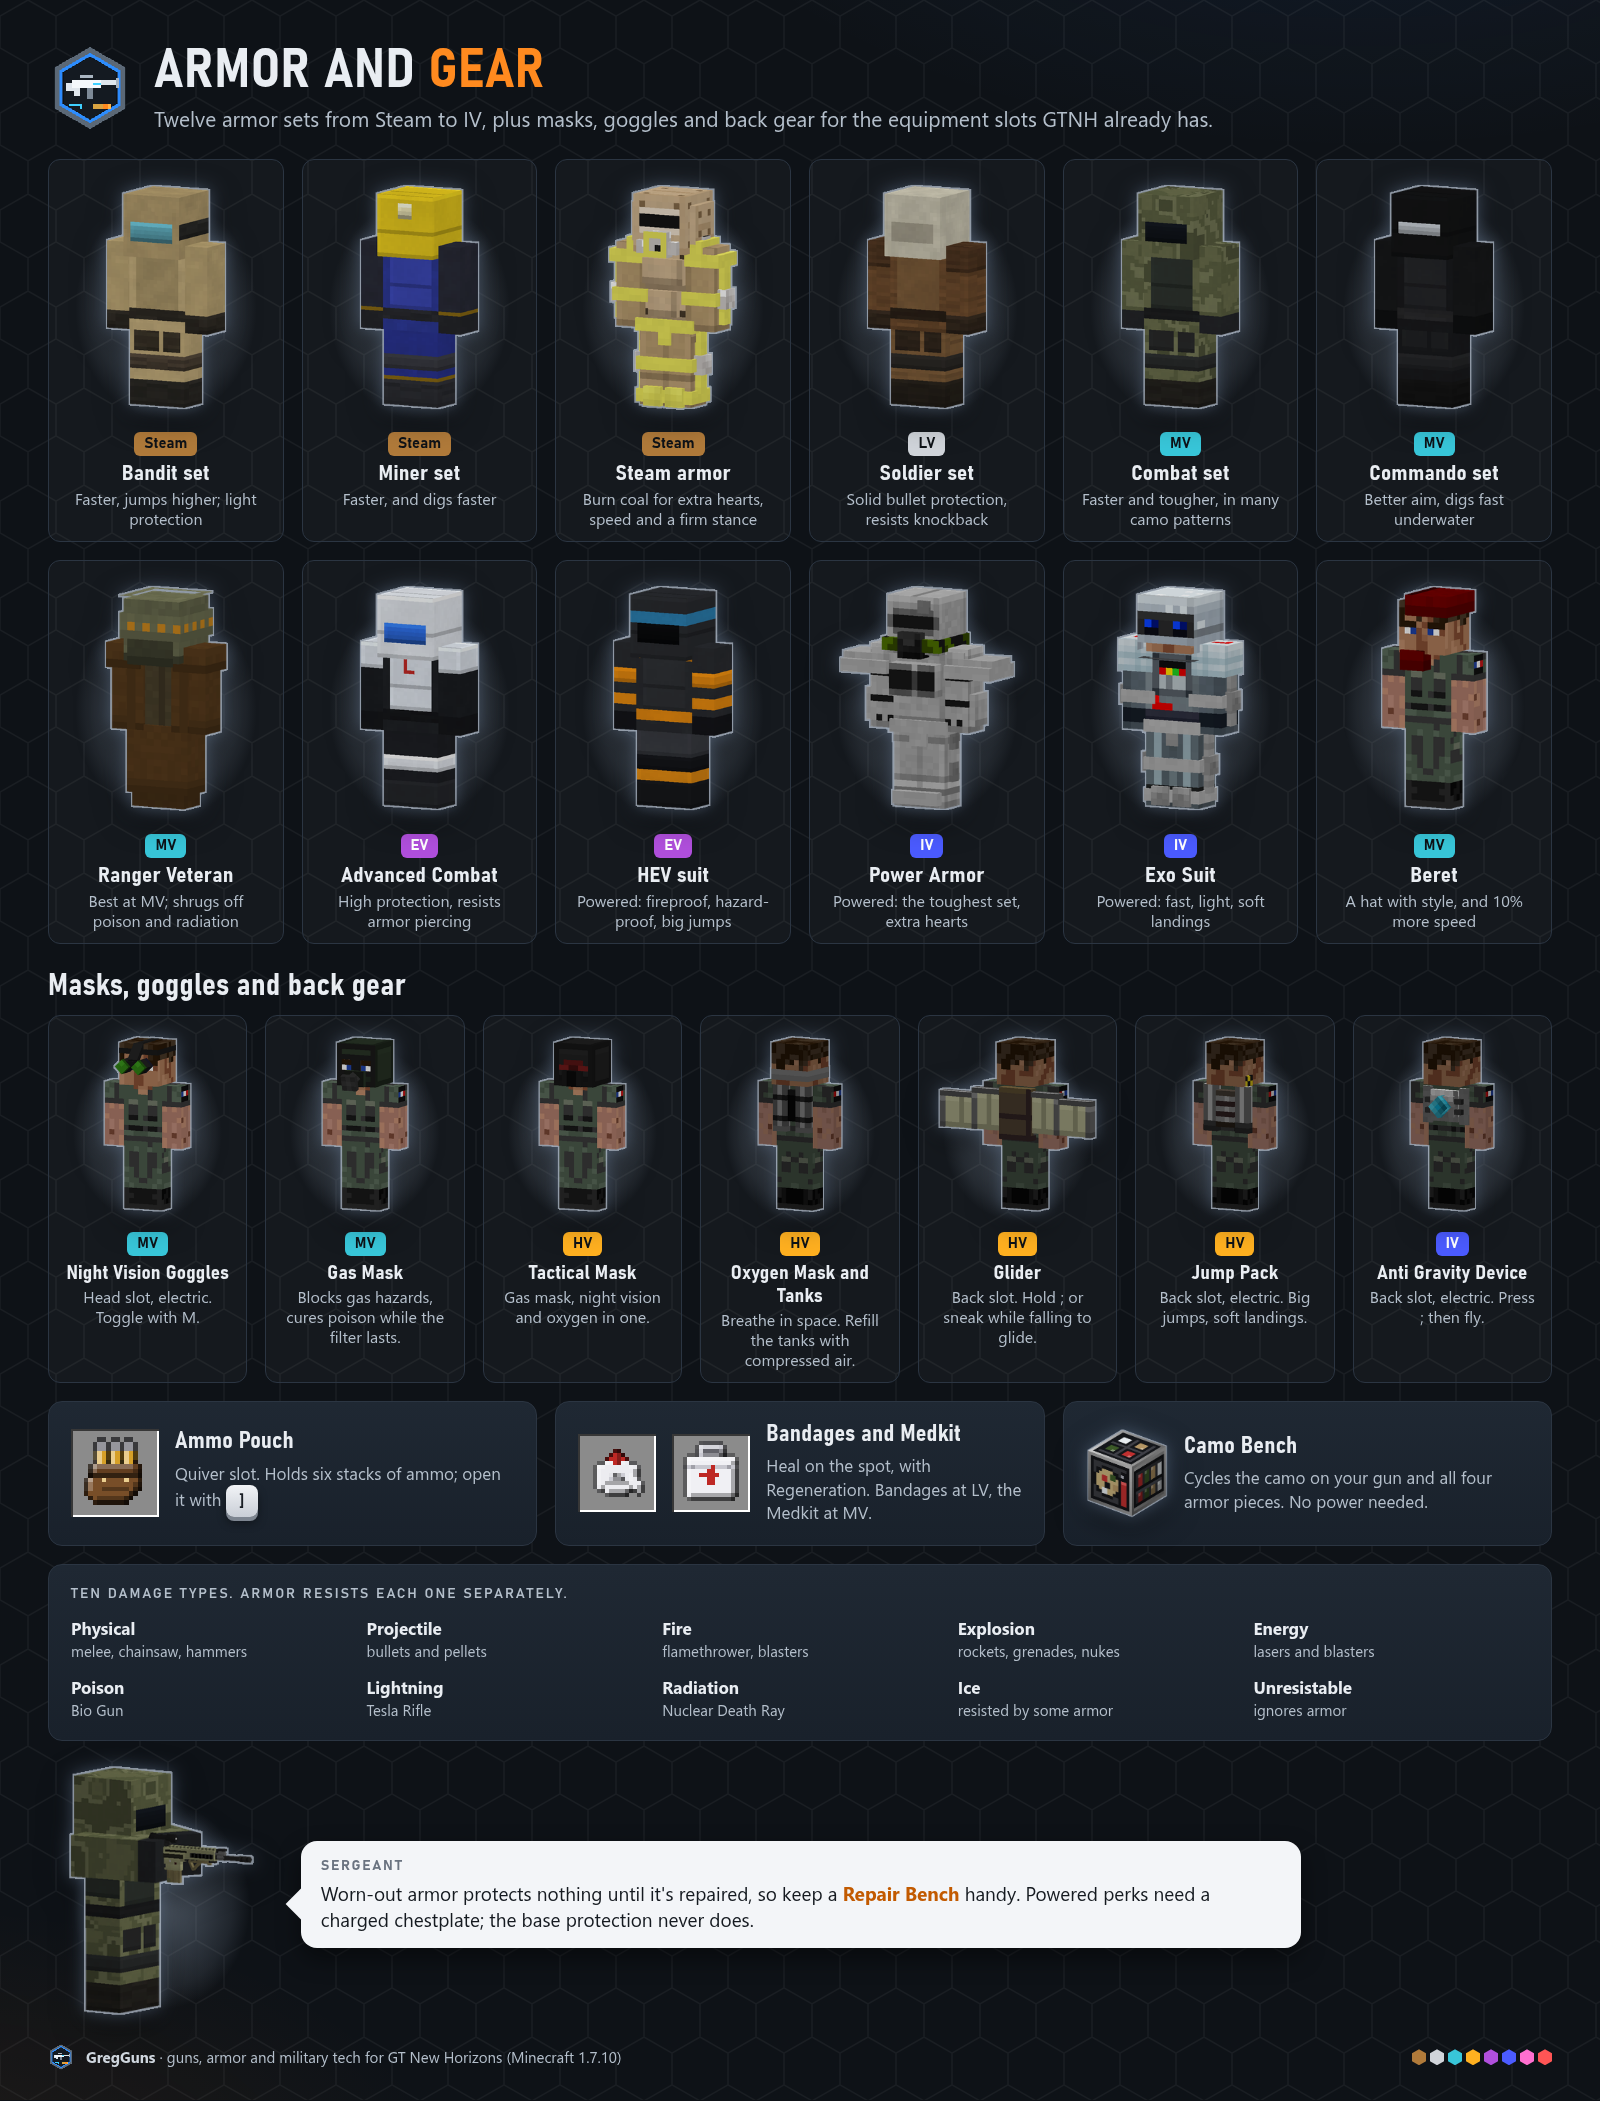
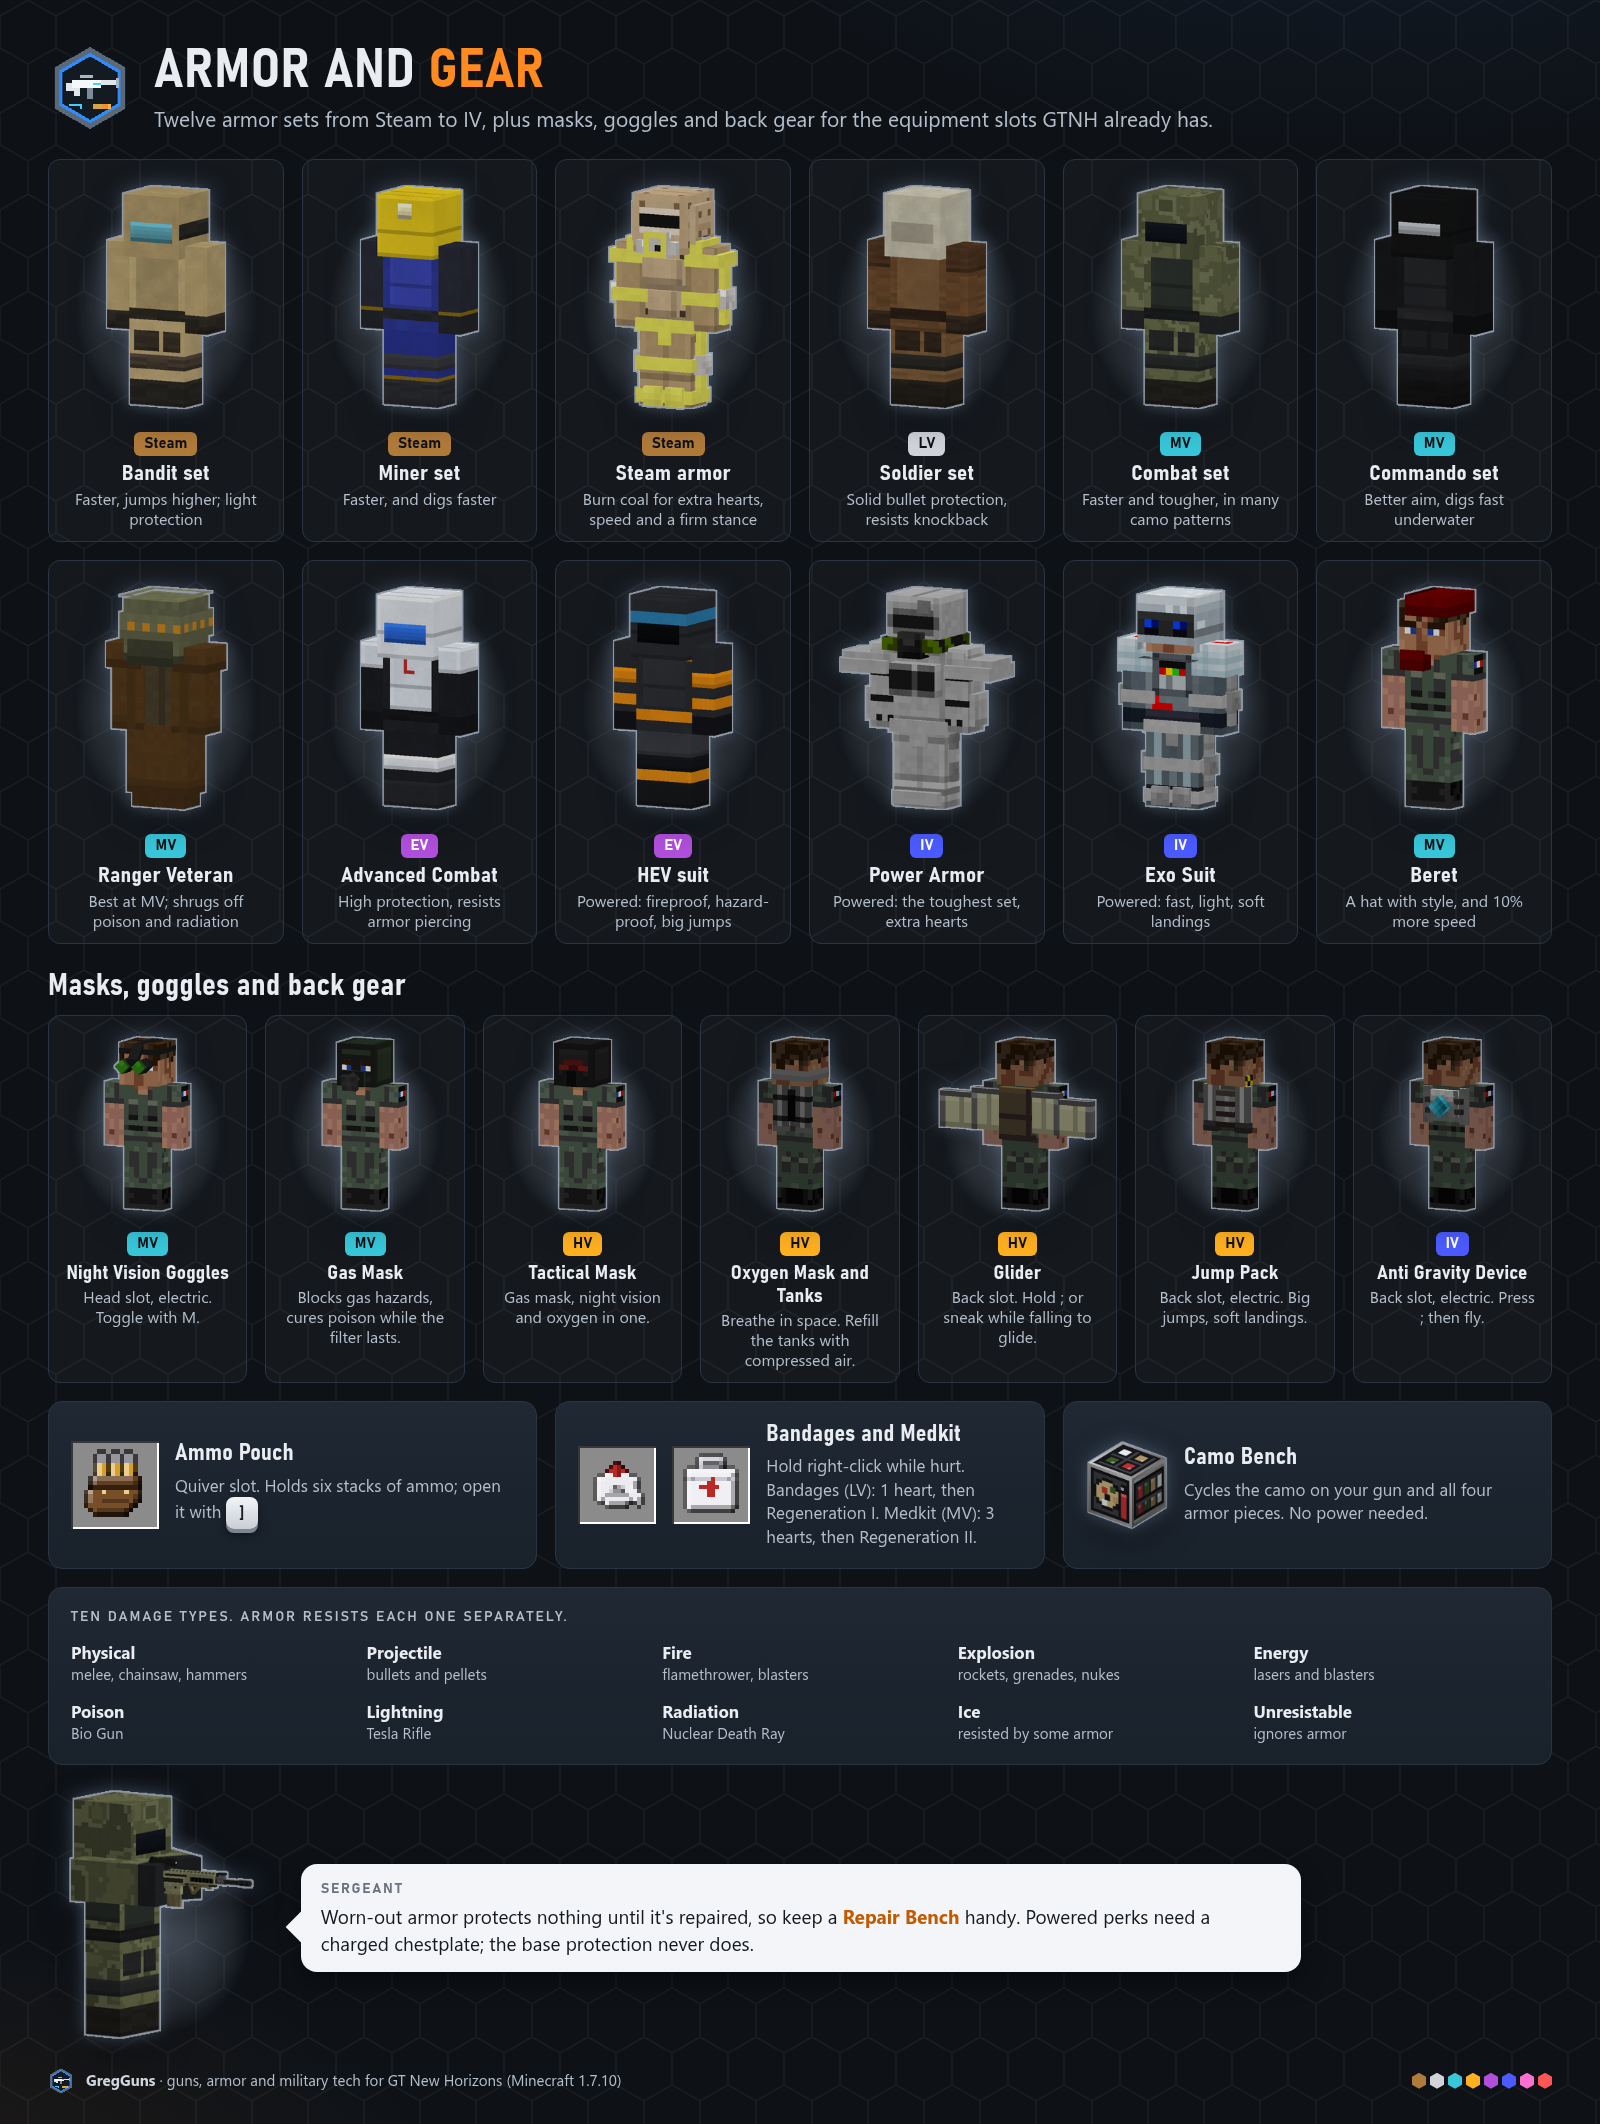
Guides: bandage and medkit facts from the items track (armor page, armor sheet, changelog)

diff --git a/tools/asset-gen/infographics/pages_more.py b/tools/asset-gen/infographics/pages_more.py
@@ -143,7 +143,7 @@ def armor():
     key_p = '<span class="key" style="min-width:32px;height:32px;font-size:16px">]</span>'
     extras = f"""<div class="grid" style="grid-template-columns:repeat(3,minmax(0,1fr));margin-top:18px">
 <div class="card" style="display:flex;gap:16px;align-items:center">{ico("ammo_pouch", 72)}<div><h3>Ammo Pouch</h3>{muted("Quiver slot. Holds six stacks of ammo; open it with " + key_p)}</div></div>
-<div class="card" style="display:flex;gap:16px;align-items:center">{ico("bandages", 64)}{ico("medkit", 64)}<div><h3>Bandages and Medkit</h3>{muted("Heal on the spot, with Regeneration. Bandages at LV, the Medkit at MV.")}</div></div>
+<div class="card" style="display:flex;gap:16px;align-items:center">{ico("bandages", 64)}{ico("medkit", 64)}<div><h3>Bandages and Medkit</h3>{muted("Hold right-click while hurt. Bandages (LV): 1 heart, then Regeneration I. Medkit (MV): 3 hearts, then Regeneration II.")}</div></div>
 <div class="card" style="display:flex;gap:16px;align-items:center">{img(S.machine_block("camo_bench", "LV"), h=90)}<div><h3>Camo Bench</h3>{muted("Cycles the camo on your gun and all four armor pieces. No power needed.")}</div></div></div>"""
     dmg = "".join(f'<div><b style="font-size:17px">{esc(n)}</b><div class="muted" style="font-size:15px">{esc(d)}</div></div>'
                   for n, d in DAMAGE)

diff --git a/.changelogs/0.4.1-beta.md b/.changelogs/0.4.1-beta.md
@@ -38,13 +38,14 @@ Read the [0.4.0-beta notes](https://github.com/Tuxprogrammer/GregGuns/releases/t
 ### Guns
 
 - **Reloading.** A magazine gun with no loaded magazine at hand loads one loose round per reload (two on the Akimbo Mac10s). The Revolvers, Golden Revolvers, Combat Shotgun and Sawed Off load one chamber at a time, a trigger pull stops the reload and fires what is loaded, and held without firing for 2 seconds they top themselves up (`guns.idleReloadDelayTicks`, 0 turns it off). Hold Shift over a gun for its reload rule.
-<!-- PEER (items): medkit and bandage behavior. Add when the items branch merges. -->
+- **Bandages and the Medkit** heal while you hold right-click: Bandages (LV) take 3 seconds and heal 1 heart at once, then Regeneration I for 15 seconds; the Medkit (MV) takes 2.5 seconds, heals 3 hearts and gives Regeneration II for 20 seconds. Your arm swings and an eating sound plays while you hold, with a burp at the end. At full health, a right-click says there is nothing to heal. <!-- PEER (items, D361): facts from the items agent's message; re-check against beta/041-items after it merges. -->
 <!-- PEER (loot): the structure loot ceiling and its key. Add when the loot branch merges. -->
 
 ## Changed
 
 - **Structures carve their own site and bring their own foundation.** Every surface structure, the Military Base with all its tents, buildings, roads, fence and flag pad included, stands on solid ground filled down to the natural ground, with no hillside, tree or overhang left inside or over it, and a cut bank around it on slopes. The Big Bunker also gets a foundation under its buried floor. The Aircraft Carrier, the Submarine and the Alien Bug Nest keep their own footing.
 - **Complexes avoid oceans and steep slopes.** A complex is never placed in an ocean or on a steep slope; rivers and lakes count as land.
+- GregGuns single blocks, hatches and items read "Added by: GregGuns" in their tooltips.
 - Super Mutants stand on the ground; their legs no longer sink into the floor.
 - **Guides, quests and sheets.** The in-game guide, Mobs Info text, quest text and the player infographics (Enemies and Loot, Abandoned Silos, Getting Started, Ammo and Magazines) describe all of the above, and name the real default keys: **R** reload, **M** night vision, **]** ammo pouch and **;** glider or anti-gravity device.
 

diff --git a/src/main/resources/assets/gregguns/guidenh/_en_us/armor.md b/src/main/resources/assets/gregguns/guidenh/_en_us/armor.md
@@ -62,7 +62,7 @@ Twelve armor sets from the Steam age to IV, plus masks, goggles and back gear fo
 ## Extras
 
 - <ItemLink id="gregguns:ammo_pouch" showIcon="left" />: quiver slot. Holds six stacks of ammo; open it with **]**.
-- <ItemLink id="gregguns:bandages" showIcon="left" /> and <ItemLink id="gregguns:medkit" showIcon="left" />: heal on the spot, with Regeneration. Bandages at LV, the Medkit at MV.
+- <ItemLink id="gregguns:bandages" showIcon="left" /> and <ItemLink id="gregguns:medkit" showIcon="left" />: hold right-click while hurt to heal. Bandages (LV) take 3 seconds and heal 1 heart at once, then Regeneration I for 15 seconds; the Medkit (MV) takes 2.5 seconds and heals 3 hearts, then Regeneration II for 20 seconds. At full health there is nothing to heal.
 - **Camo Bench:** cycles the camo on your gun and all four armor pieces. No power needed.
 
 ## Damage types
